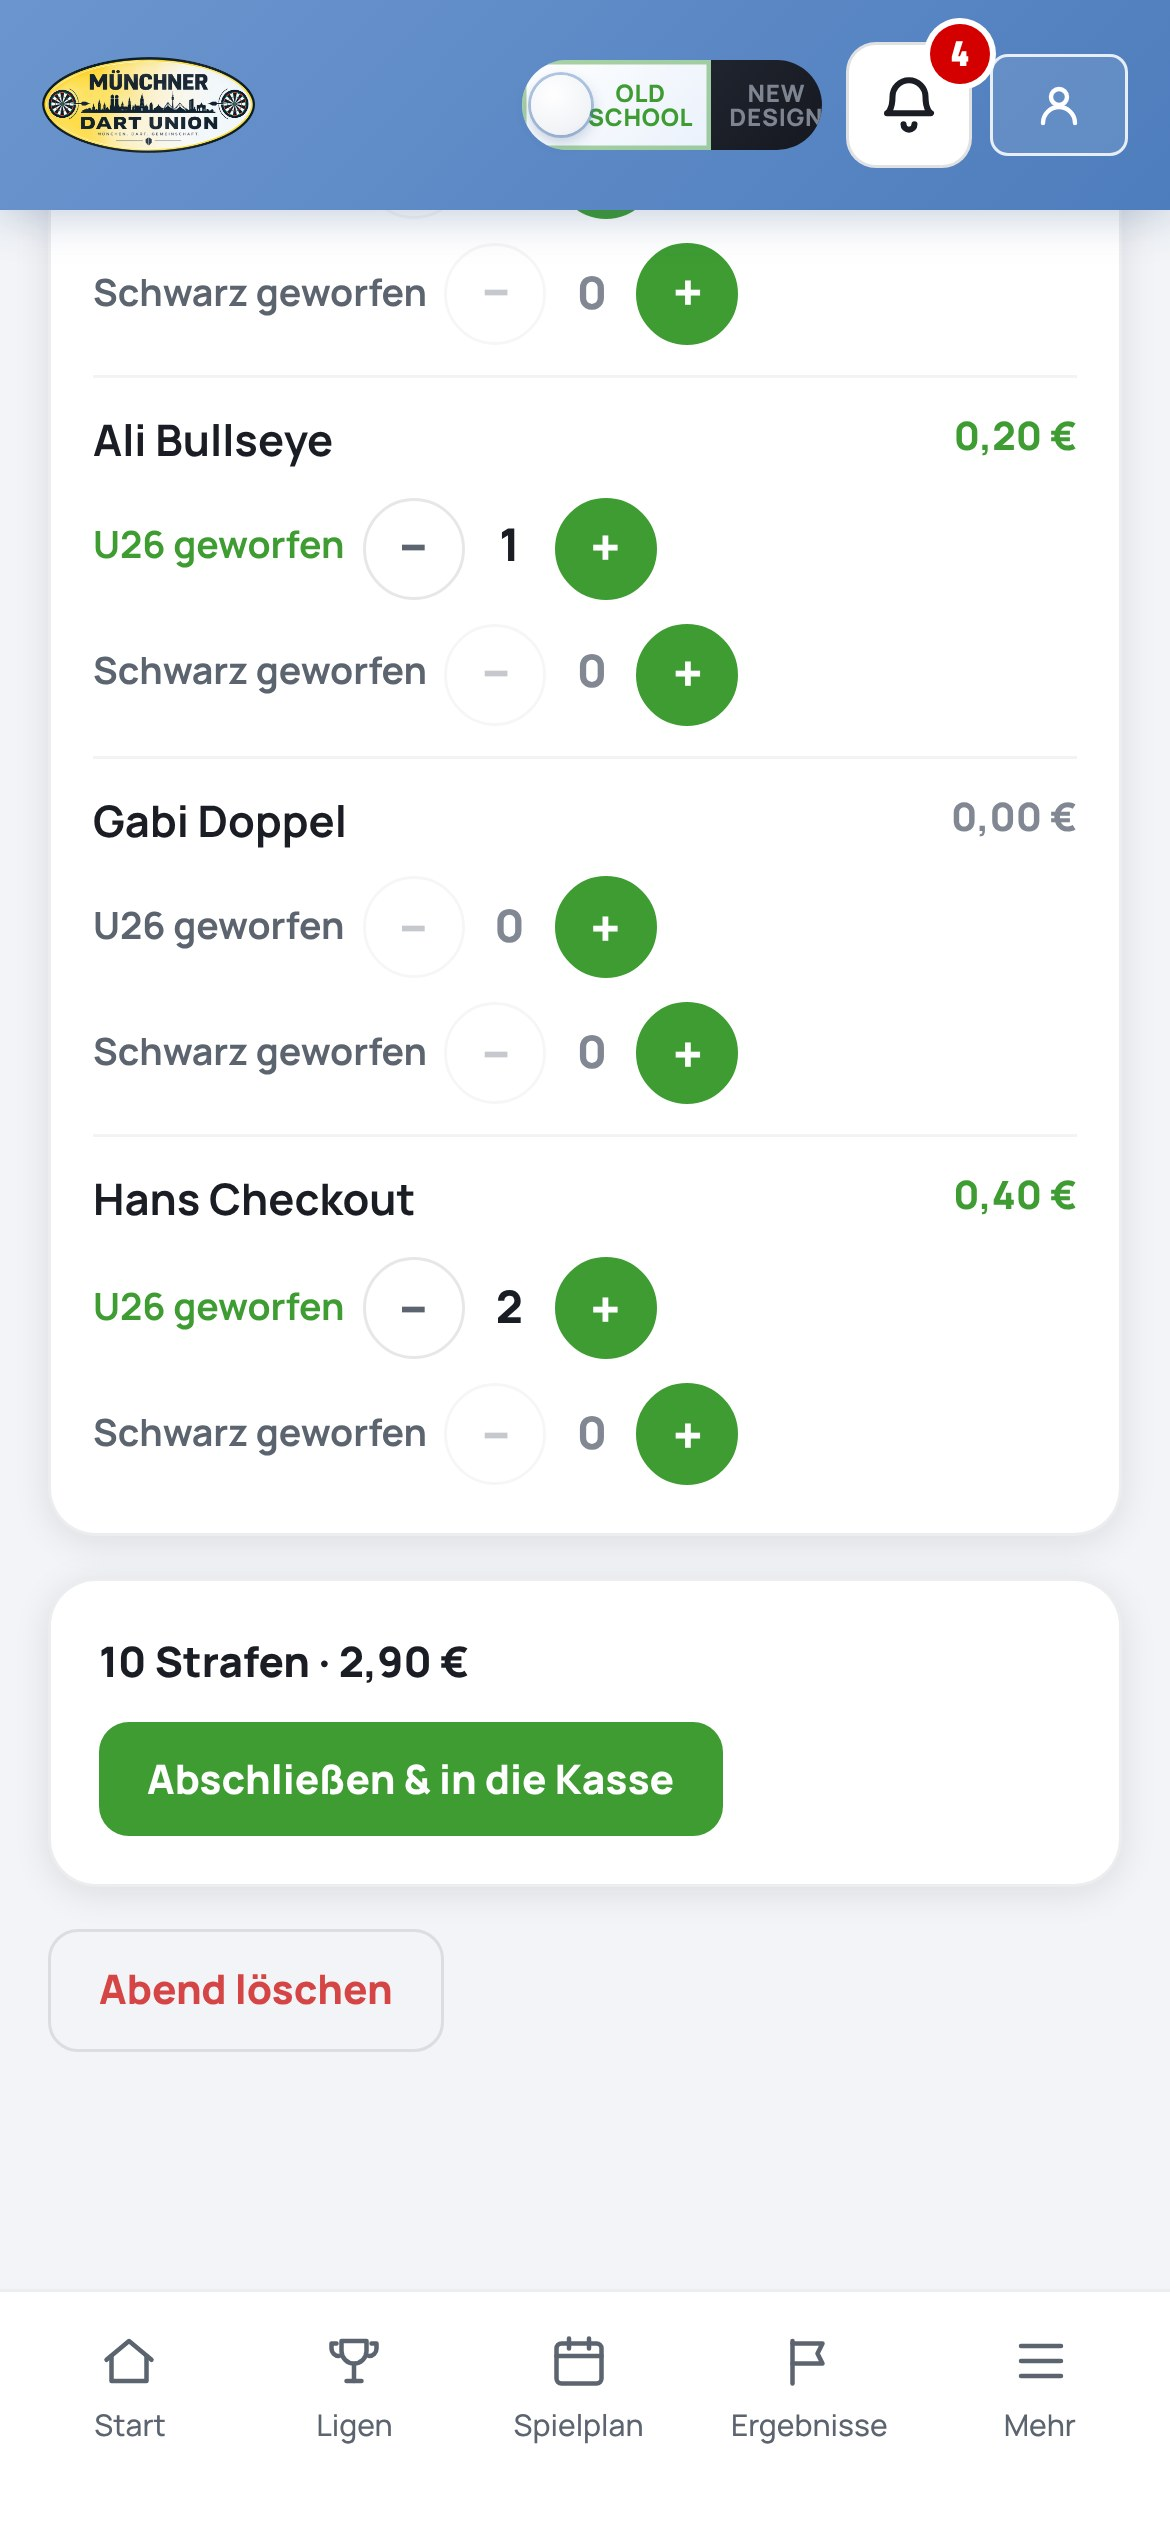
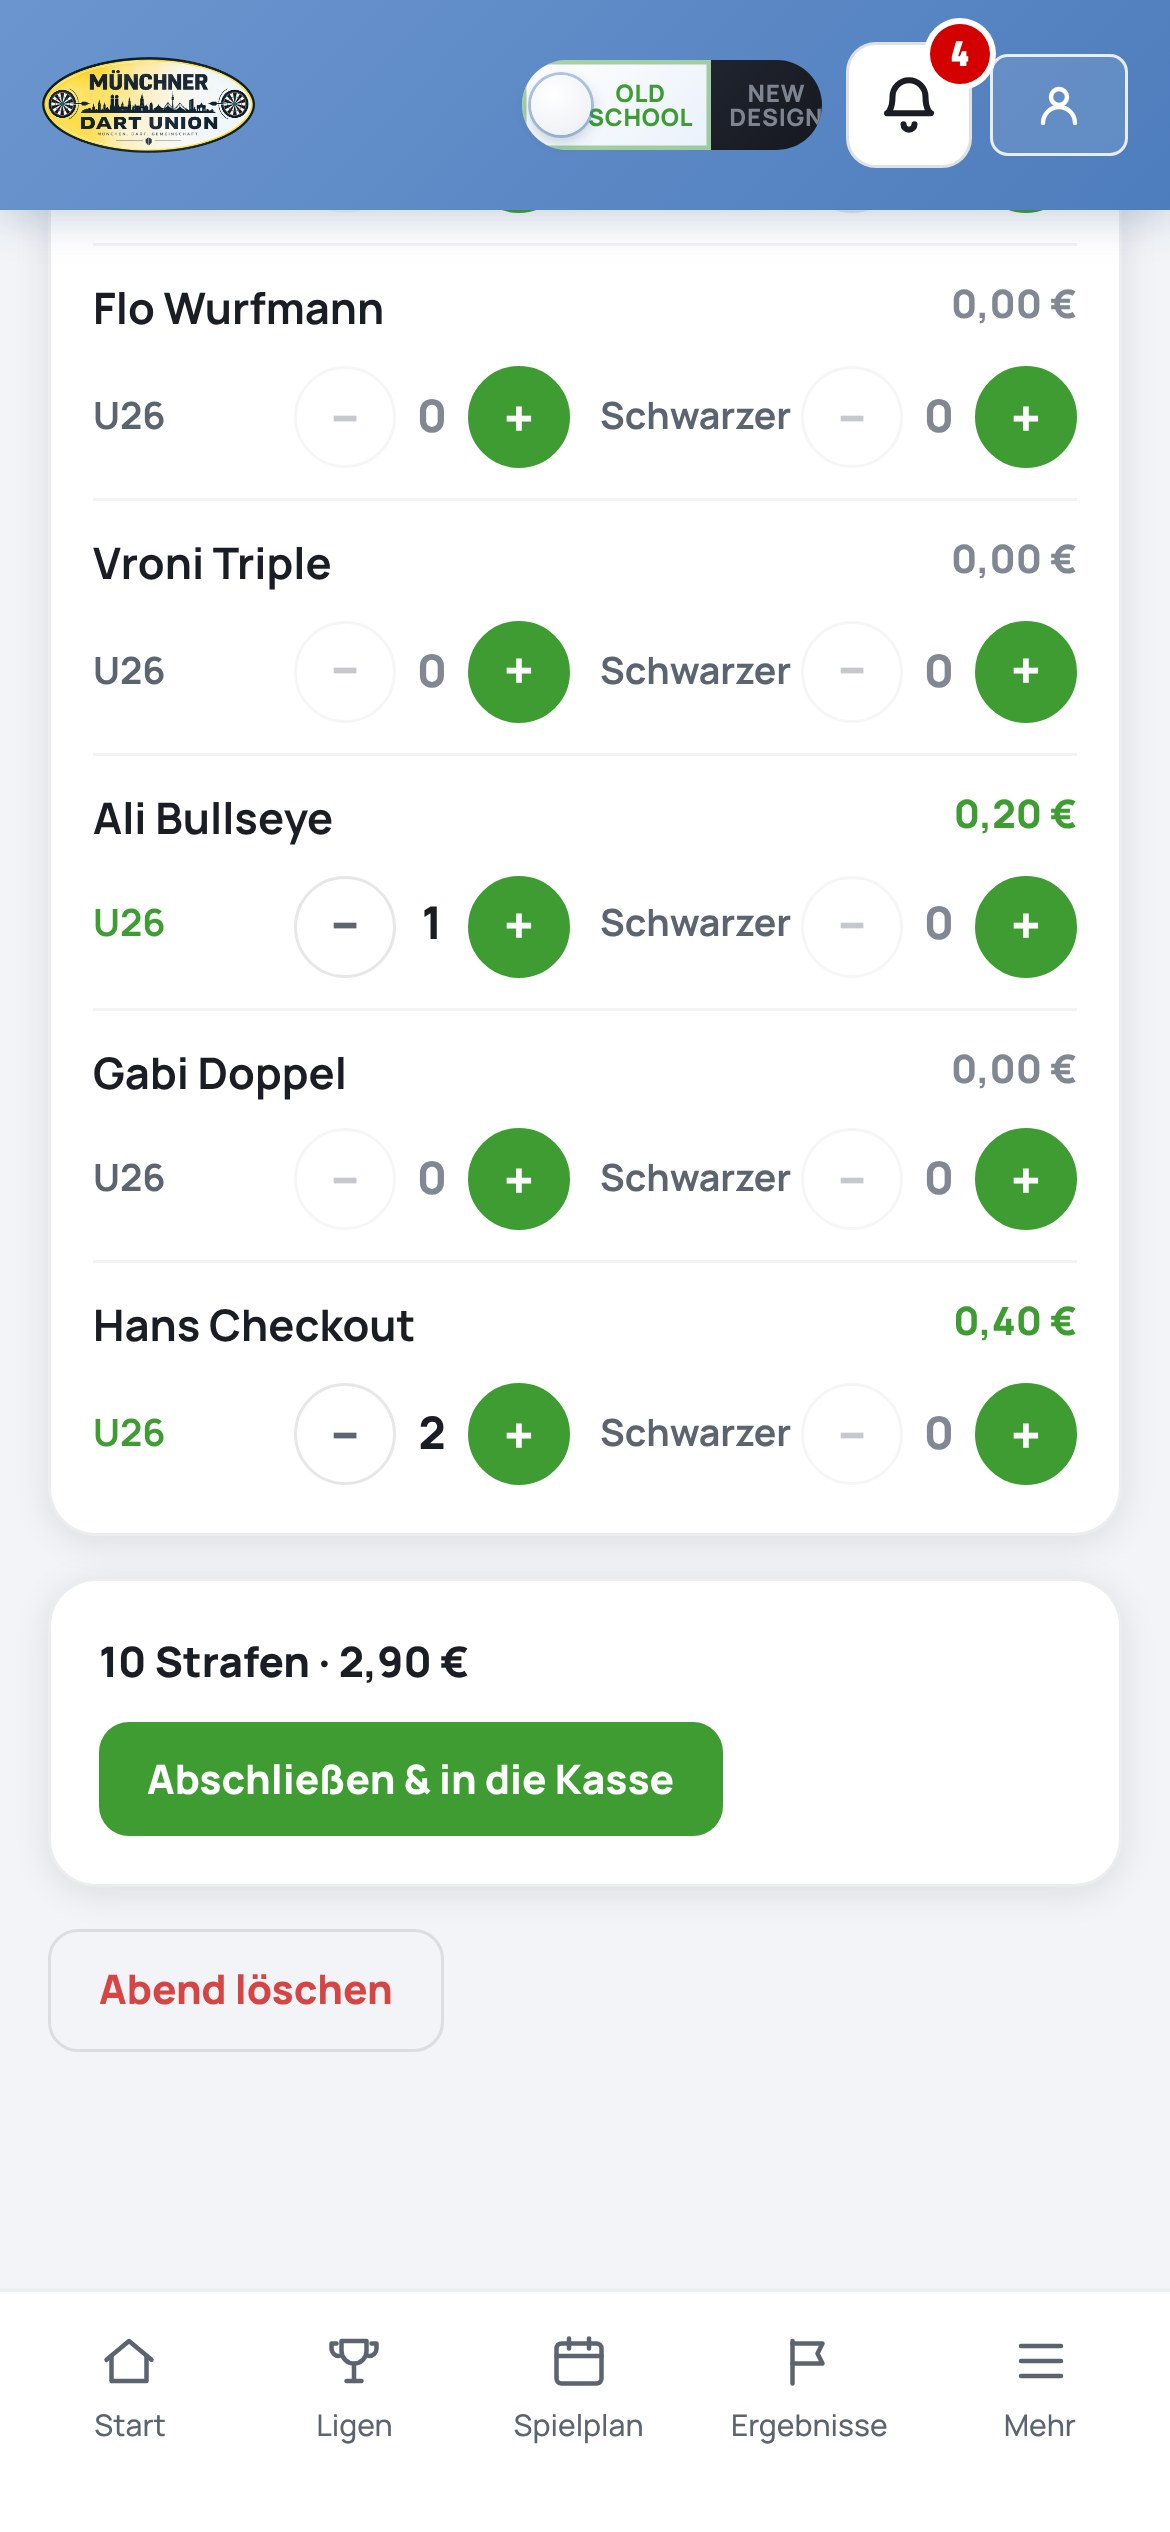
Video Team Manager: Strafen-Tracker mit U26/Schwarzer im neuen Raster
Claude-Session: https://claude.ai/code/session_01HJuPqxEVWduKKc8bR1MN96

diff --git a/scripts/video-team-manager/shots-liste.js b/scripts/video-team-manager/shots-liste.js
@@ -85,6 +85,6 @@ module.exports = [
   }],
   ['push-frage', 's=dash&n=9&push=1'],
   // Strafen-Tracker (30.10.2026): live mitzählen, Summe + „Abschließen & in die Kasse“
-  ['strafen', 's=strafen', async p => { await p.locator('button[aria-label="Schwarz geworfen bei Tim Treffer mehr"]').first().click(); await p.waitForTimeout(400); await zu('Max Mustermann', 200, 'b')(p); }],
+  ['strafen', 's=strafen', async p => { await p.locator('button[aria-label="Schwarzer bei Tim Treffer mehr"]').first().click(); await p.waitForTimeout(400); await zu('Max Mustermann', 200, 'b')(p); }],
   ['strafen-summe', 's=strafen', zu('Abschließen', 520, 'button')],
 ];
